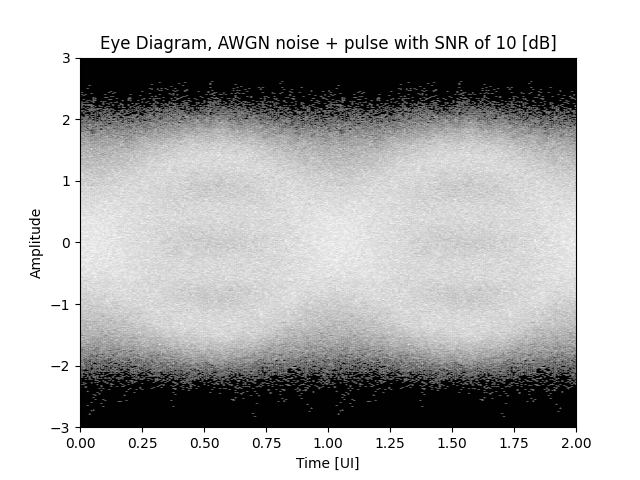
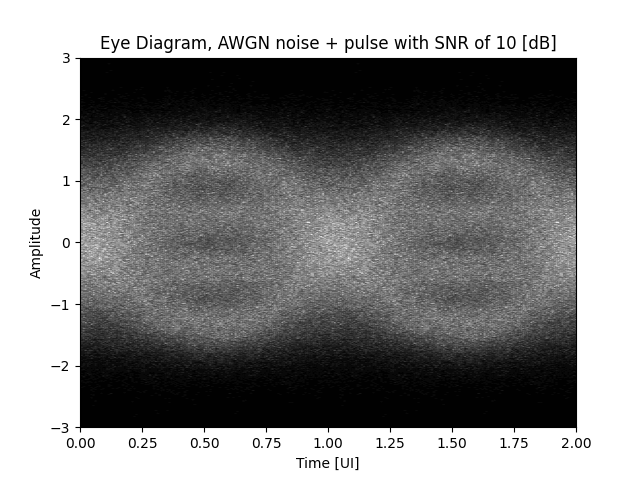
Started orgenizing the channel sub-package and adding examples to the README

diff --git a/test/example_scripts/example_runs.py b/test/example_scripts/example_runs.py
@@ -66,6 +66,7 @@ def channel_example(pulse_show=False, pulse_eye=False,  awgn_eye=False):
     # Eye diagram
     # ==================================================================================================================
     if pulse_eye:
+        tx_out_rcos = cdsp.channel.pulse_shape(pattern,osr=32, span=8, method='rcos', beta=rolloff)
         plt.figure()
         eye_d, amp_vec = cdsp.eye_diagram(tx_out_rcos, 32, 128, fs_value=3, quantization=2048, logscale=True)
         time_ui = np.linspace(0, 2, 256)
@@ -78,10 +79,10 @@ def channel_example(pulse_show=False, pulse_eye=False,  awgn_eye=False):
     # ==================================================================================================================
     if awgn_eye:
         rolloff = 0.9
-        snr     = 30
+        snr     = 10
         pattern = tx_example()
         ch_out = cdsp.channel.awgn(pattern, osr=32, span=8, method='rcos', beta=rolloff, snr=snr)
-        eye_d, amp_vec = cdsp.eye_diagram(ch_out, 32, 128, fs_value=3, quantization=2048, logscale=True)
+        eye_d, amp_vec = cdsp.eye_diagram(ch_out, 32, 128, fs_value=3, quantization=2048, logscale=False)
         time_ui = np.linspace(0, 2, 256)
         plt.contourf(time_ui, amp_vec, eye_d, levels=100, cmap='gray')
         plt.title(f'Eye Diagram, AWGN noise + pulse with SNR of {snr} [dB]')
@@ -91,4 +92,4 @@ def channel_example(pulse_show=False, pulse_eye=False,  awgn_eye=False):
 
 if __name__ == '__main__':
     # tx_example()
-    channel_example(awgn_eye=True)
+    channel_example(pulse_eye=True, awgn_eye=True)

diff --git a/README.md b/README.md
@@ -61,11 +61,11 @@ eye_d, amp_vec = cdsp.eye_diagram(tx_out_rcos, 32, 128, fs_value=3, quantization
 The results can be seen using `matplotlib.pyplot` functions such as `contourf`:
 ![Eye_pulse_rcos_rolloff_0p5](./pictures/eye_pulse_shape_rcos_rolloff_0p5.png)
 
-**Figure 2** Eye diagram of PRBS13 after raised cosine pulse shaping with rolloff of 0.5
+**Figure 2** Eye diagram of PRBS13 after raised cosine pulse shaping with rolloff of 0.5, logscale plot
 
 ![Eye_pulse_rcos_rolloff_0p5](./pictures/eye_pulse_shape_rcos_rolloff_0p9.png)
 
-**Figure 3** Eye diagram of PRBS13 after raised cosine pulse shaping with rolloff of 0.9
+**Figure 3** Eye diagram of PRBS13 after raised cosine pulse shaping with rolloff of 0.9, logscale plot
 
 ## Passing a signal through channels
 The package can be used to pass a signal through different channels
@@ -76,6 +76,8 @@ rolloff = 0.9
 snr     = 30
 pattern = tx_example()
 ch_out  = cdsp.channel.awgn(pattern, osr=32, span=8, method='rcos', beta=rolloff, snr=snr)
+eye_d, amp_vec = cdsp.eye_diagram(ch_out, 32, 128, fs_value=3, quantization=2048, logscale=False)
+time_ui = np.linspace(0, 2, 256)
 ```
 The result can be shown in the form of an eye diagram:
 
